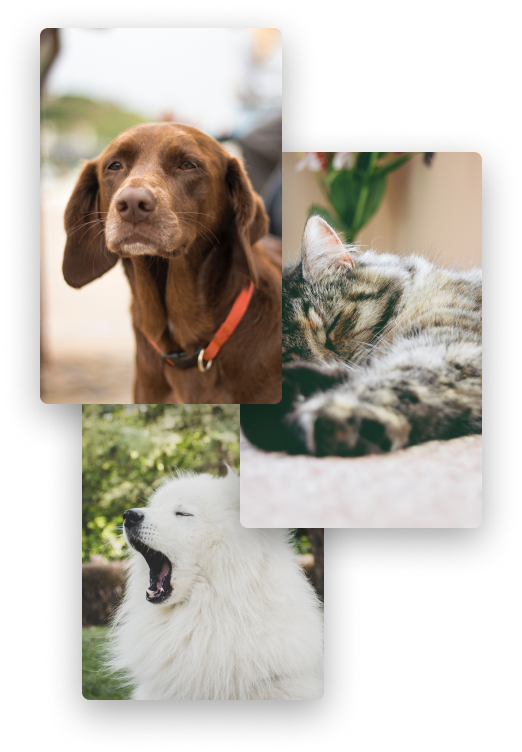
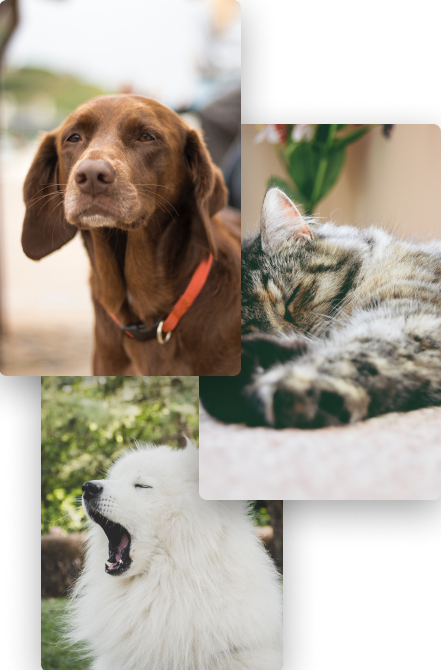
Внесены правки во всю верстку. Обрезаны поля у картинок photo-pets.

diff --git a/landings/landingFigmaFirst/index.html b/landings/landingFigmaFirst/index.html
@@ -12,21 +12,126 @@
     <link href="./style.css" rel="stylesheet" />
   </head>
   <body>
-    <div class="first-block general-style">
-      <nav class="navigation-bar">
-        <div class="logo">Mariposa SPCA</div>
-        <div class="links">
-          <a href="#" class="link">Adoption</a>
-          <a href="#" class="link">Events</a>
-          <a href="#" class="link">Memberships</a>
-          <a href="#" class="link">Volunteer</a>
-          <a href="#" class="link">Success Stories</a>
-          <a href="#" class="link">Blog</a>
-          <a href="#" class="link">Donate</a>
-        </div>
-      </nav>
+    <nav class="navigation-bar">
+      <div class="logo">Mariposa SPCA</div>
+      <div class="links">
+        <a href="#" class="link">Adoption</a>
+        <a href="#" class="link">Events</a>
+        <a href="#" class="link">Memberships</a>
+        <a href="#" class="link">Volunteer</a>
+        <a href="#" class="link">Success Stories</a>
+        <a href="#" class="link">Blog</a>
+        <a href="#" class="link">Donate</a>
+      </div>
+    </nav>
 
-      <div class="discription-head">
+    <div class="discription-head general-style">
+      <h1 class="header">Keeping and Caring&nbsp;for&nbsp;Animals</h1>
+      <p class="text">
+        Mariposa SPCA is a non-profit working to keep and care for animals and
+        enforcing laws relating to the cruelty of animals. <br/ >
+        <br />
+        The general purpose, for which this corporation is formed, is to provide
+        an arena for local education and humane treatment to animals and to
+        foster local interest in such a society.
+      </p>
+      <div class="block-buttons">
+        <button class="donate">Donate Now</button>
+        <button class="learn-m">Learn More</button>
+      </div>
+    </div>
+
+    <div class="block-discription first">
+      <img class="photo-pets" src="assets/images/first-pets.png" alt="pets" />
+
+      <div class="text-block">
+        <h2 class="header">
+          Finding a Forever Friend
+        </h2>
+        <p class="text">
+          Millions of companion animals in shelters across America are just
+          waiting for a special home like yours. Navigating the adoption process
+          isn't as hard as you think. We can help you find the perfect pet and
+          discover how amazing adopting a pet can be.
+          <br />
+          <br />
+          An animal shelter or a rescue group is the best source for a new pet,
+          and our pet-care experts have compiled all the information you'll need
+          to find your nearest group, select a pet who matches your lifestyle,
+          and more.
+        </p>
+        <a class="link-outside" href="#">Start adopting →</a>
+
+        <div class="block-with-comment">
+          <img
+            class="photo-author"
+            src="assets/images/first-testimony.png"
+            alt="dog"
+          />
+          <p class="comment-text">
+            “The Mariposa Team was invaluable to my adoption process, providing
+            all the necesary matierals to ensure a smooth and safe process."
+            <br />
+            <span class="name-author">Fido, Pedigree Pug</span>
+          </p>
+        </div>
+      </div>
+    </div>
+
+    <div class="block-discription second">
+      <div class="text-block">
+        <h2 class="header">
+          Volunteer Your Valuable Time
+        </h2>
+        <p class="text">
+          Say, “Yes, I am here,” to a lonely shelter kitty or puppy. We can all
+          use a little scratch behind the ears. Donate your time to help the
+          animals! Opportunities include dog walking, puppy and kitty petting,
+          yard sale assistance, fundraising, community outreach, and more. Your
+          valuable gift of time will have a positive impact on our community.
+          <br />
+          All of our volunteers are wonderful people just like you. As an
+          advocate for animal welfare you will have many two legged and four
+          legged friends! Say, “Yes, I am here,” and volunteer today.
+        </p>
+        <a class="link-outside" href="#">Start adopting →</a>
+        <div class="block-with-comment">
+          <img
+            class="photo-author"
+            src="assets/images/second-testimony.png"
+            alt="cat"
+          />
+          <p class="comment-text">
+            “It was incredible to see the selfless Mariposa SPCA workers
+            <br />
+            volunteer their time to my well-being and general
+            <br />
+            happiness. They’ve had an incredible impact on our community.”
+            <br />
+            <span class="name-author">Whiskers, Long-Haired Tabby</span>
+          </p>
+        </div>
+
+        <div class="block-with-comment">
+          <img
+            class="photo-author"
+            src="assets/images/third-testimony.png"
+            alt="human"
+          />
+          <p class="comment-text">
+            “It was remarkable to see not only the impact that
+            <br />
+            volunteering had on myself, but also the impact delivered
+            <br />
+            to all of the rescued animals.”
+            <br />
+            <span class="name-author">Parker Henderson, Human</span>
+          </p>
+        </div>
+      </div>
+      <img class="photo-pets" src="assets/images/second-pets.png" alt="pets" />
+
+      <div class="discription-foo general-style">
         <h1 class="header">Keeping and Caring&nbsp;for&nbsp;Animals</h1>
         <p class="text">
           Mariposa SPCA is a non-profit working to keep and care for animals and
@@ -41,101 +146,6 @@
           <button class="learn-m">Learn More</button>
         </div>
       </div>
-
-      <div class="block-discription first">
-        <img class="photo-pets" src="assets/images/first-pets.png" alt="pets" />
-
-        <div class="text-block">
-          <h2 class="header">
-            Finding a Forever Friend
-          </h2>
-          <p class="text">
-            Millions of companion animals in shelters across America are just
-            waiting for a special home like yours. Navigating the adoption
-            process isn't as hard as you think. We can help you find the perfect
-            pet and discover how amazing adopting a pet can be.
-            <br />
-            <br />
-            An animal shelter or a rescue group is the best source for a new
-            pet, and our pet-care experts have compiled all the information
-            you'll need to find your nearest group, select a pet who matches
-            your lifestyle, and more.
-          </p>
-          <a class="link-outside" href="#">Start adopting →</a>
-
-          <div class="block-with-comment">
-            <img
-              class="photo-author"
-              src="assets/images/first-testimony.png"
-              alt="dog"
-            />
-            <p class="comment-text">
-              “The Mariposa Team was invaluable to my adoption process,
-              providing all the necesary matierals to ensure a smooth and safe
-              process."
-              <br />
-              <span class="name-author">Fido, Pedigree Pug</span>
-            </p>
-          </div>
-        </div>
-      </div>
-    </div>
-
-    <div class="second-block general-style">
-      <div class="block-discription second">
-        <div class="text-block">
-          <h2 class="header">
-            Volunteer Your Valuable Time
-          </h2>
-          <p class="text">
-            Say, “Yes, I am here,” to a lonely shelter kitty or puppy. We can
-            all use a little scratch behind the ears. Donate your time to help
-            the animals! Opportunities include dog walking, puppy and kitty
-            petting, yard sale assistance, fundraising, community outreach, and
-            more. Your valuable gift of time will have a positive impact on our
-            community.
-            <br />
-            All of our volunteers are wonderful people just like you. As an
-            advocate for animal welfare you will have many two legged and four
-            legged friends! Say, “Yes, I am here,” and volunteer today.
-          </p>
-          <a class="link-outside" href="#">Start adopting →</a>
-          <div class="block-with-comment">
-            <img
-              class="photo-author"
-              src="assets/images/second-testimony.png"
-              alt="cat"
-            />
-            <p class="comment-text">
-              “It was incredible to see the selfless Mariposa SPCA workers
-              <br />
-              volunteer their time to my well-being and general
-              <br />
-              happiness. They’ve had an incredible impact on our community.”
-              <br />
-              <span class="name-author">Whiskers, Long-Haired Tabby</span>
-            </p>
-          </div>
-
-          <div class="block-with-comment">
-            <img
-              class="photo-author"
-              src="assets/images/third-testimony.png"
-              alt="human"
-            />
-            <p class="comment-text">
-              “It was remarkable to see not only the impact that
-              <br />
-              volunteering had on myself, but also the impact delivered
-              <br />
-              to all of the rescued animals.”
-              <br />
-              <span class="name-author">Parker Henderson, Human</span>
-            </p>
-          </div>
-        </div>
-      </div>
-      <img class="photo-pets" src="assets/images/second-pets.png" alt="pets" />
     </div>
   </body>
 </html>

diff --git a/landings/landingFigmaFirst/style.css b/landings/landingFigmaFirst/style.css
@@ -8,30 +8,16 @@ body {
   margin: 0;
   padding: 0;
   font-family: 'Poppins', sans-serif;
+  background: url(./assets/images/first-bg.jpg) center 0 no-repeat, url(./assets/images/second-bg.jpg) center 2174px no-repeat;
 }
 
 a {
   text-decoration-line:  none;
 }
 
-.general-style {
-  width: 100%;
-  background-size: cover;
-  background-repeat: no-repeat;
-  overflow-y: scroll;
-}
-
-.first-block {
-  height: 2174px;
-  background-image: url(./assets/images/first-bg.jpg);
-}
-
 .navigation-bar {
   display: flex;
   justify-content: space-between;
-  font-family: Arial, Helvetica, sans-serif;
-  font-style: normal;
-  font-weight: normal;
   font-size: 14px;
   line-height: 29px;
   margin-top: 56px;
@@ -51,7 +37,7 @@ a {
   padding-right: 92px;
 }
 
-.discription-head {
+.general-style {
   width: 713px;
   height: 475px;
   margin: 304px 0 0 173px;
@@ -94,15 +80,20 @@ button:hover {
 }
 
 .block-discription {
-  min-height: 793px;
   display: flex;
   flex-wrap: wrap;
+  justify-content: space-between;
   color: white;
-  margin: 494px 142px 0;
+  margin: 494px 130px 0;
 }
 
 .text-block {
-  max-width: 50%;
+  width: 640px;
+}
+
+.photo-pets {
+  width: 442px;
+  height: 100%;
 }
 
 .link-outside {
@@ -117,22 +108,12 @@ button:hover {
   margin-bottom: 120px;
 }
 
-.photo-pets {
-  display: inline-block;
-  max-width: 100%;
-  object-fit: contain;
-  /* height: auto; */
-  /* text-align: center; */
-}
+
 .block-with-comment {
   display: flex;
   align-items: center;
 }
 
-
-/* .second > .text-block> .block-with-comment:nth-of-type(2) {
-  padding-top: 40px;
-} */
 
 .photo-author {
   flex: 0 0 64px; 
@@ -151,11 +132,6 @@ button:hover {
   display: inline-block;
   padding: 16px 0 0 0 ;
   color: rgba(255, 255, 255, 0.6);
-}
-
-.second-block {
-  height: 2158px;
-  background-image: url(./assets/images/second-bg.jpg);
 }
 
 .block-discription > .second {

diff --git a/landings/landingFigmaFirst/trim.js b/landings/landingFigmaFirst/trim.js
@@ -1,0 +1,4 @@
+const trimImage   = require('trim-image');
+const fs          = require('fs');
+ 
+trimImage(`./assets/images/first-pets.png`, `./assets/images/first-pets-trim.png`);
